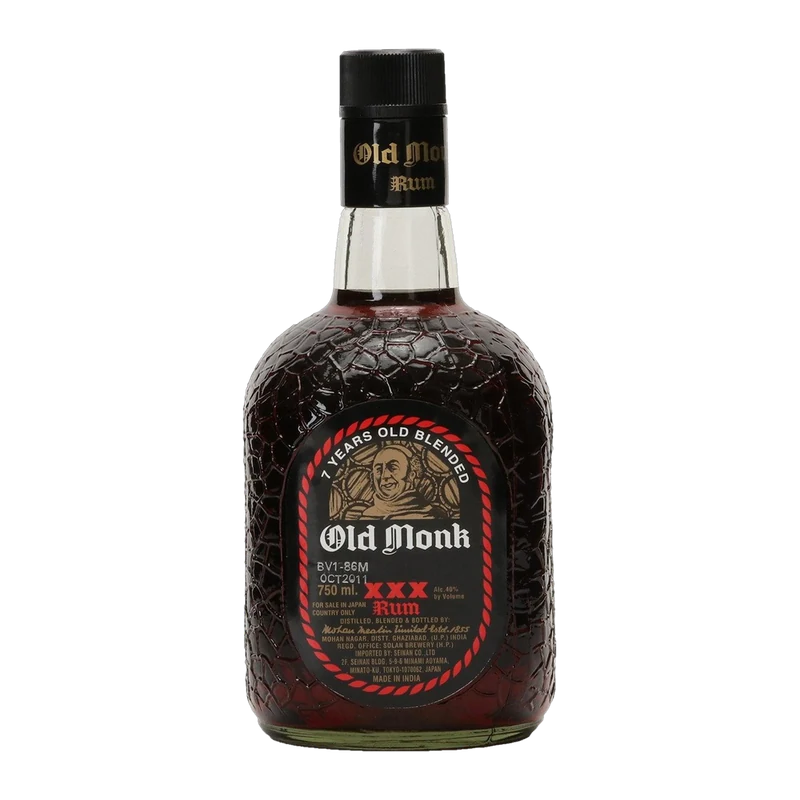
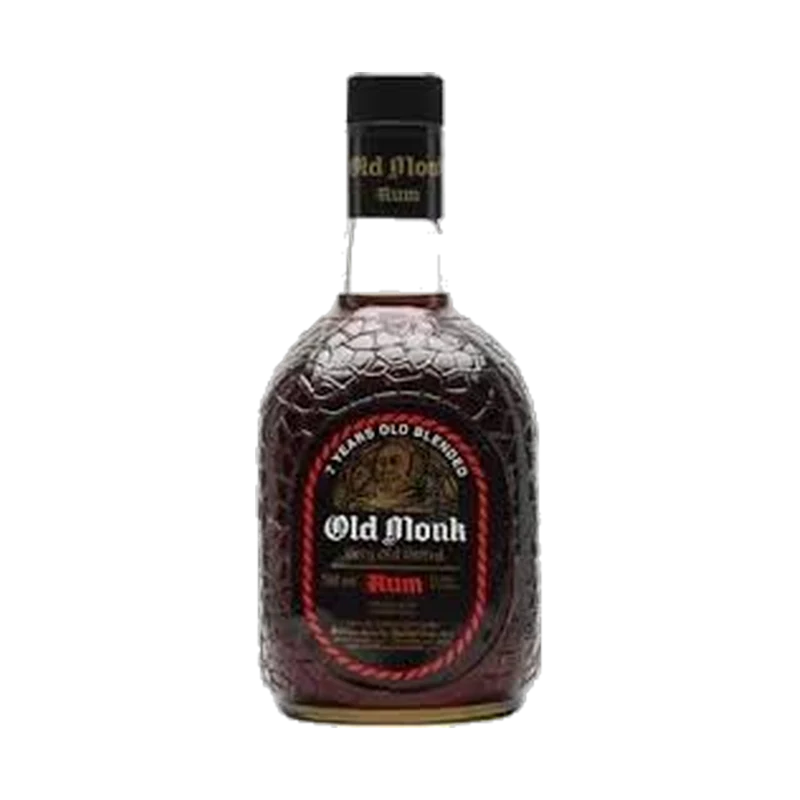
Add files via upload

Changed region(s): [[0.2812, 0.0625, 0.7188, 0.9375]]

diff --git a/assets/js/site.js b/assets/js/site.js
@@ -66,10 +66,15 @@
     "XCLAMATION": "assets/products/whisky/xclamation.webp",
     "GREEN LABEL": "assets/products/whisky/green-label.webp",
     "MANSION HOUSE": "assets/products/whisky/mansion-house.webp",
-    "SIGNATURE PREMIER": "assets/products/whisky/signature-premier.webp"
-    // Held back: the supplied Old Monk photo is the Japan export label ("For sale in Japan").
-    // Remove the two slashes below to show it anyway, or replace the file with an Indian-label photo.
-    // , "OLD MONK XXX": "assets/products/rum/old-monk-xxx.webp"
+    "SIGNATURE PREMIER": "assets/products/whisky/signature-premier.webp",
+    "BACARDI BLACK": "assets/products/rum/bacardi-black.webp",
+    "MCD XXX": "assets/products/rum/mcd-xxx.webp",
+    "OLD MONK GOLD": "assets/products/rum/old-monk-gold.webp",
+    "OLD MONK COFFEE": "assets/products/rum/old-monk-coffee.webp",
+    "OLD MONK XXX": "assets/products/rum/old-monk-xxx.webp",
+    "BACARDI WHITE": "assets/products/rum/bacardi-white.webp",
+    "BACARDI LIMON": "assets/products/rum/bacardi-limon.webp",
+    "BACARDI MANGO": "assets/products/rum/bacardi-mango.webp"
   };
 
   // Website category names. The database keeps its own names; these are display labels only.
